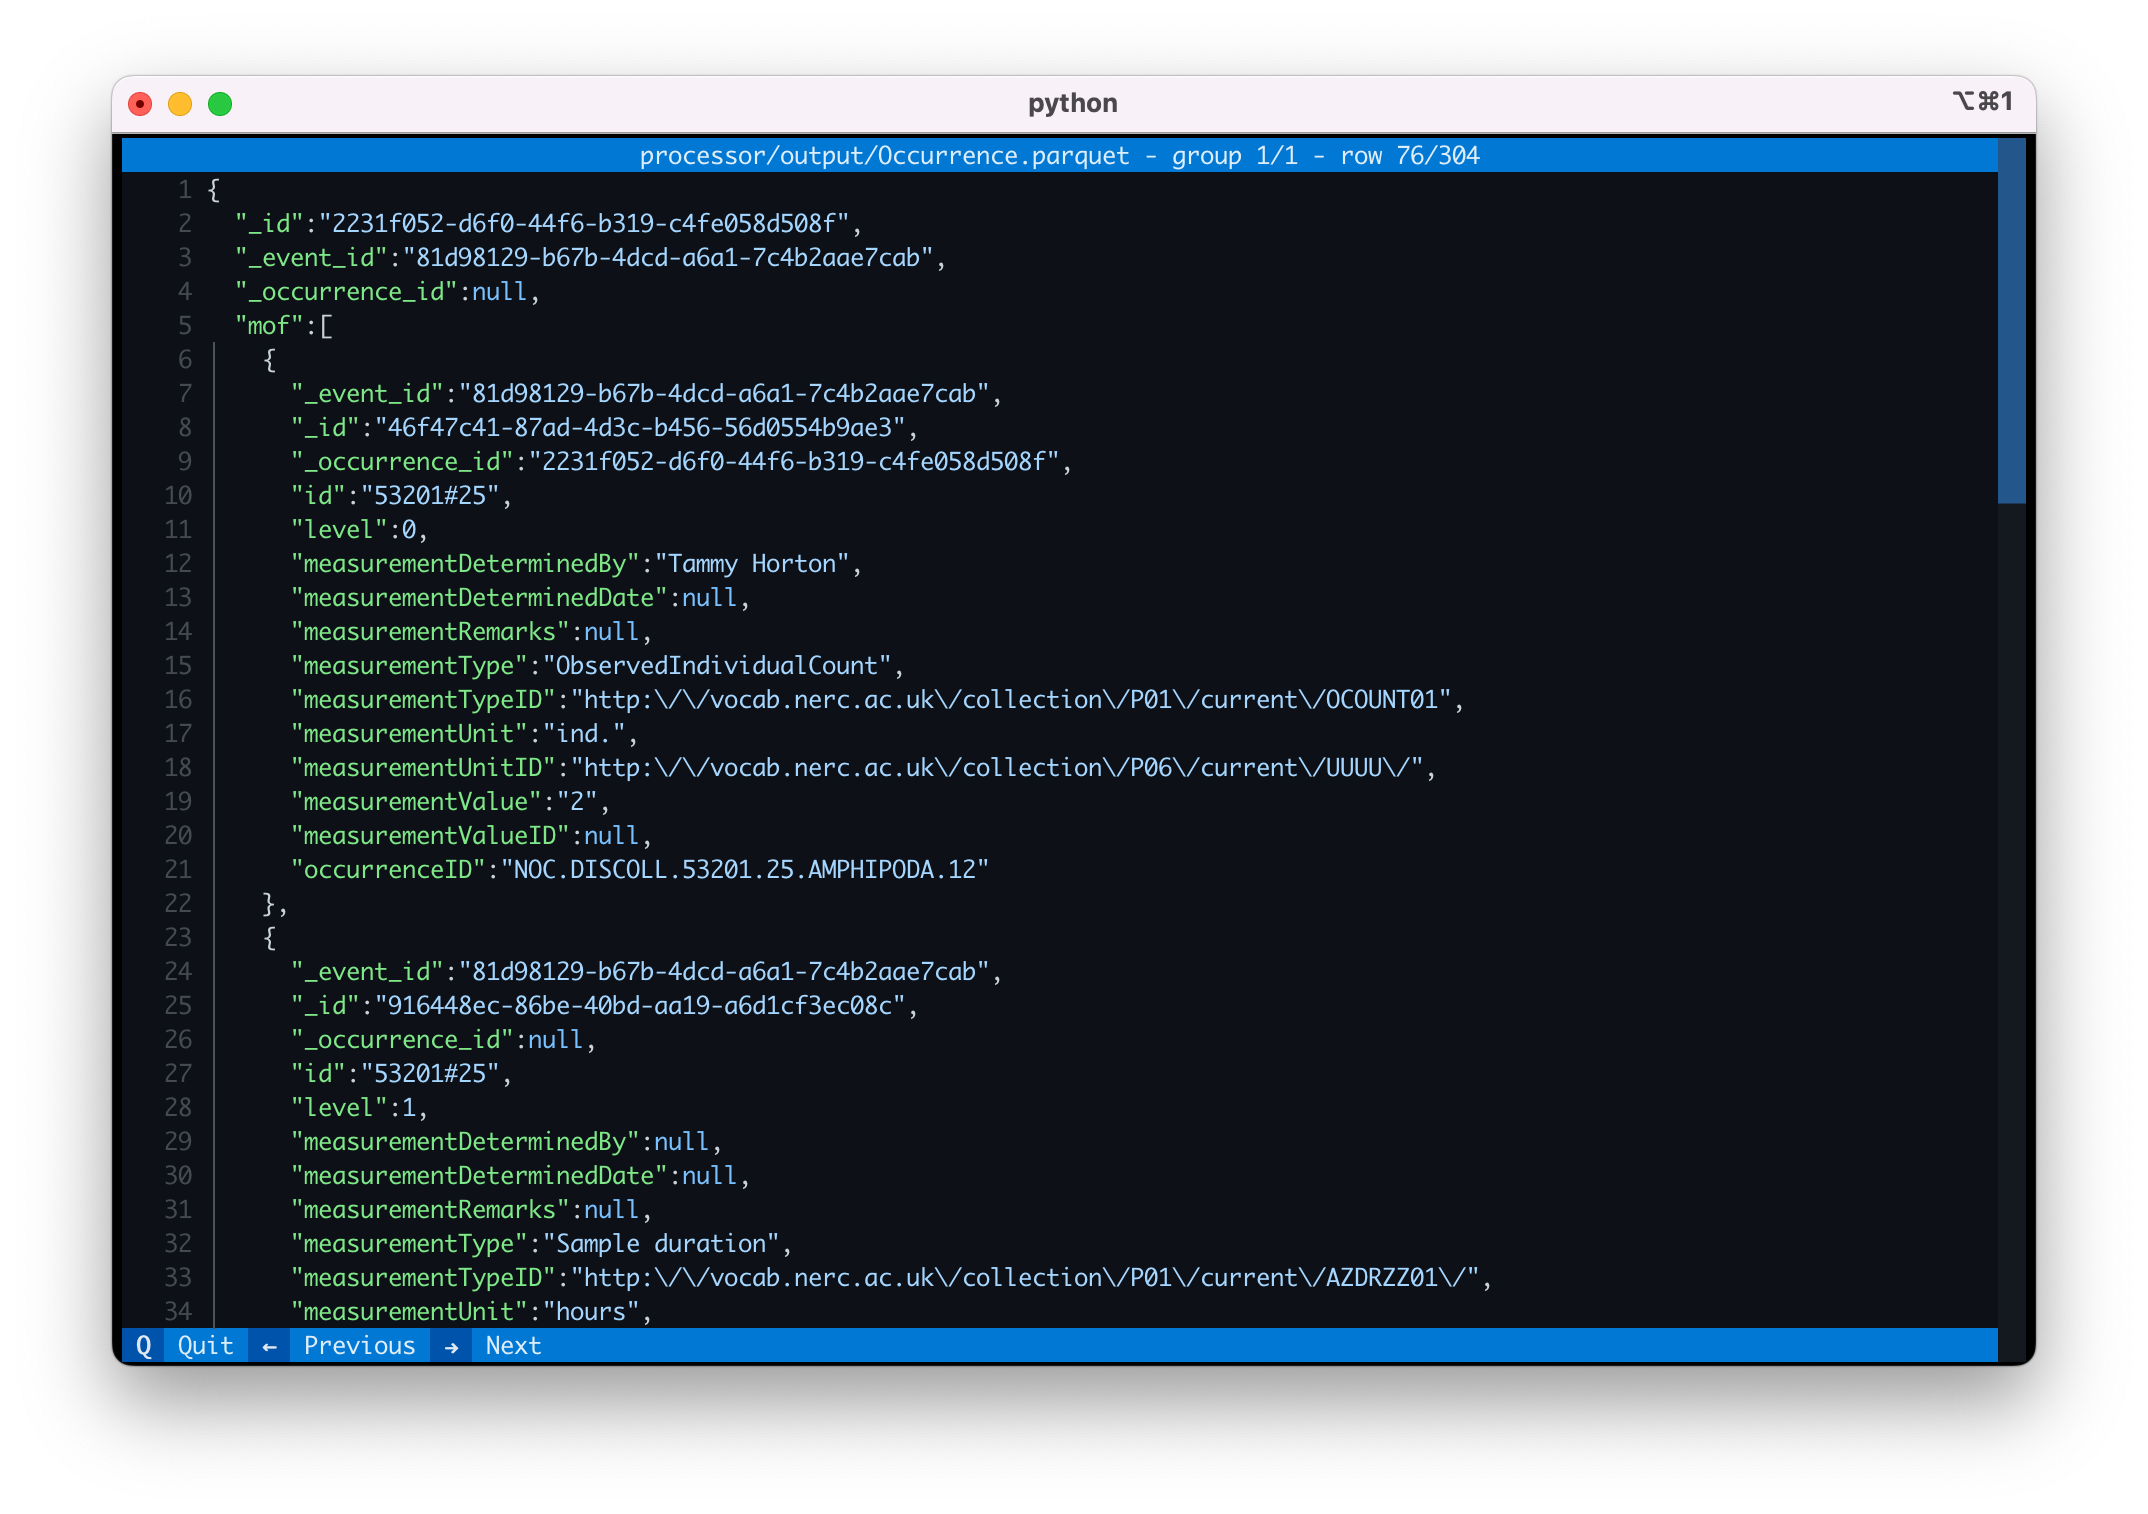
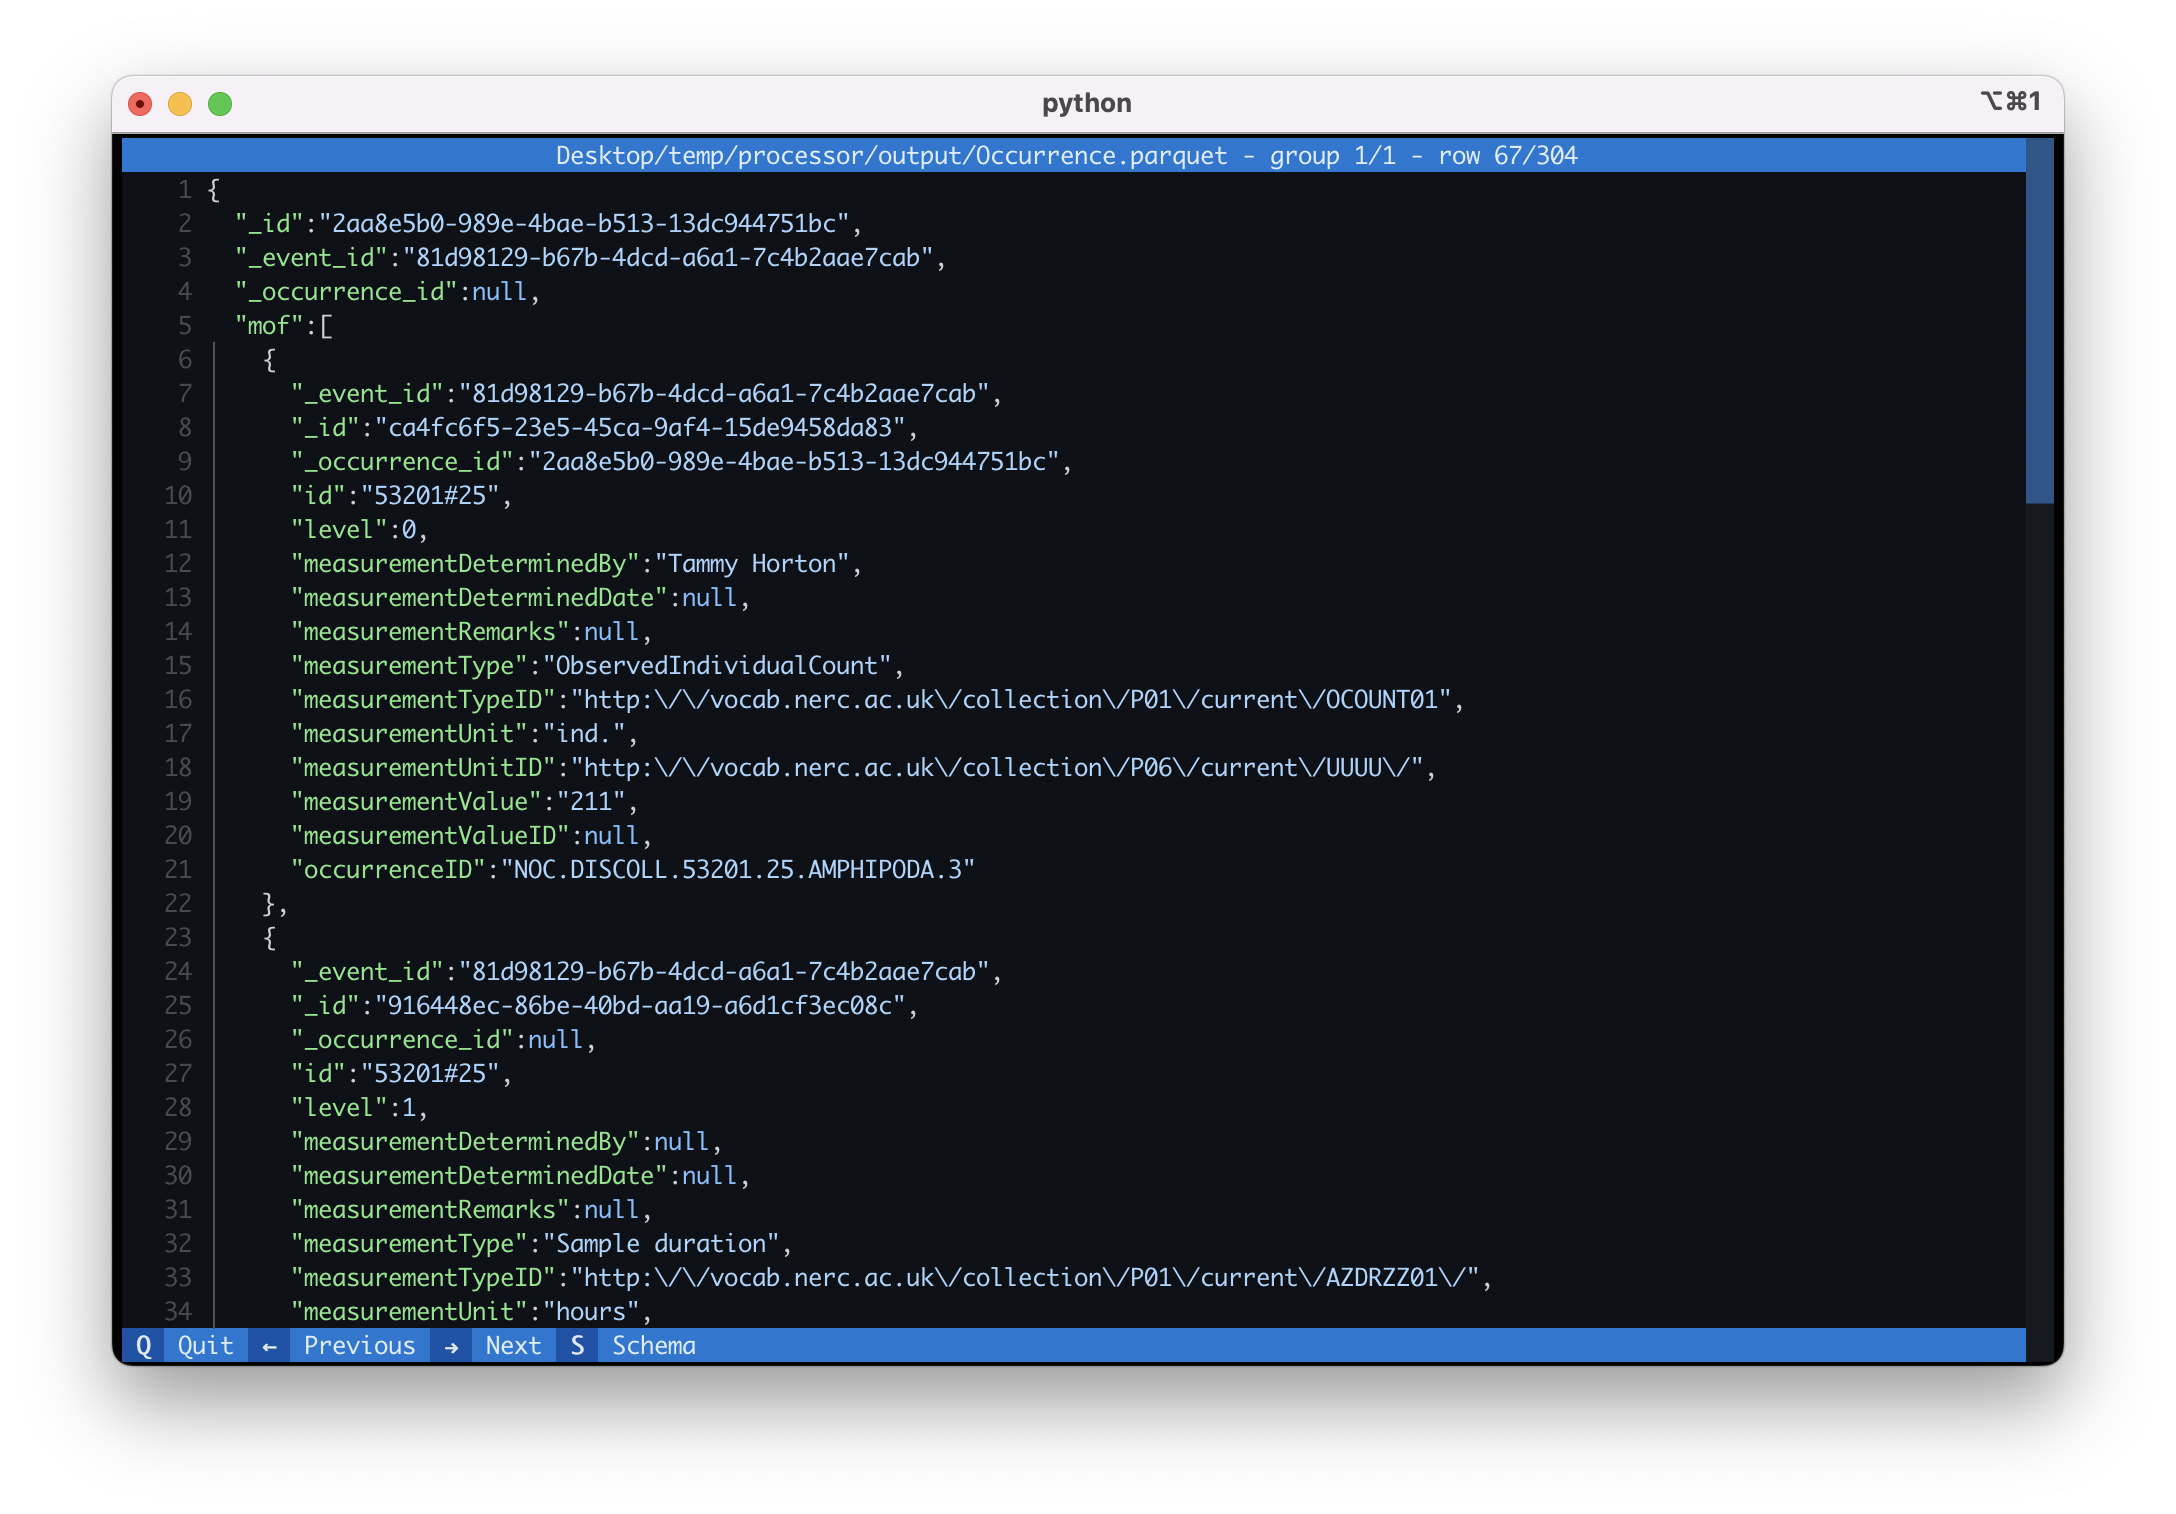
added schema view

diff --git a/pqv/__main__.py b/pqv/__main__.py
@@ -14,6 +14,7 @@ class ParquetApp(App[str]):
         ("q", "quit", "Quit"),
         ("←", "previous", "Previous"),
         ("→", "next", "Next"),
+        ("s", "schema", "Schema"),
     ]
 
     def compose(self) -> ComposeResult:
@@ -38,6 +39,16 @@ class ParquetApp(App[str]):
         syntax = Syntax(row, "json", theme="github-dark", line_numbers=True, word_wrap=False, indent_guides=True)
         json_view.update(syntax)
 
+    def toggle_schema(self):
+        if self.schema is None:
+            json_view = self.query_one("#json", Static)
+            self.schema = "\n".join(str(self.parquet_file.schema).splitlines(keepends=False)[1:])
+            syntax = Syntax(self.schema, "yaml", theme="github-dark", line_numbers=True, word_wrap=False, indent_guides=True)
+            json_view.update(syntax)
+        else:
+            self.schema = None
+            self.show_row()
+
     def previous(self):
         self.row_index = self.row_index - 1 if self.row_index > 0 else 0
         if self.row_index < self.group_offset:
@@ -60,6 +71,8 @@ class ParquetApp(App[str]):
             self.previous()
         elif event.key == "right":
             self.next()
+        elif event.key == "s":
+            self.toggle_schema()
 
     def on_mount(self) -> None:
         self.group = None
@@ -68,6 +81,7 @@ class ParquetApp(App[str]):
         self.row_index = 0
         self.file_path = sys.argv[1]
         self.parquet_file = ParquetFile(os.path.expanduser(self.file_path))
+        self.schema = None
         self.update_group()
         self.show_row()
 

diff --git a/setup.py b/setup.py
@@ -3,7 +3,7 @@ from setuptools import setup, find_packages
 
 setup(
     name="pqv",
-    version="0.0.1",
+    version="0.1.0",
     author="Pieter Provoost",
     author_email="pieterprovoost@gmail.com",
     description="Simple parquet viewer",
